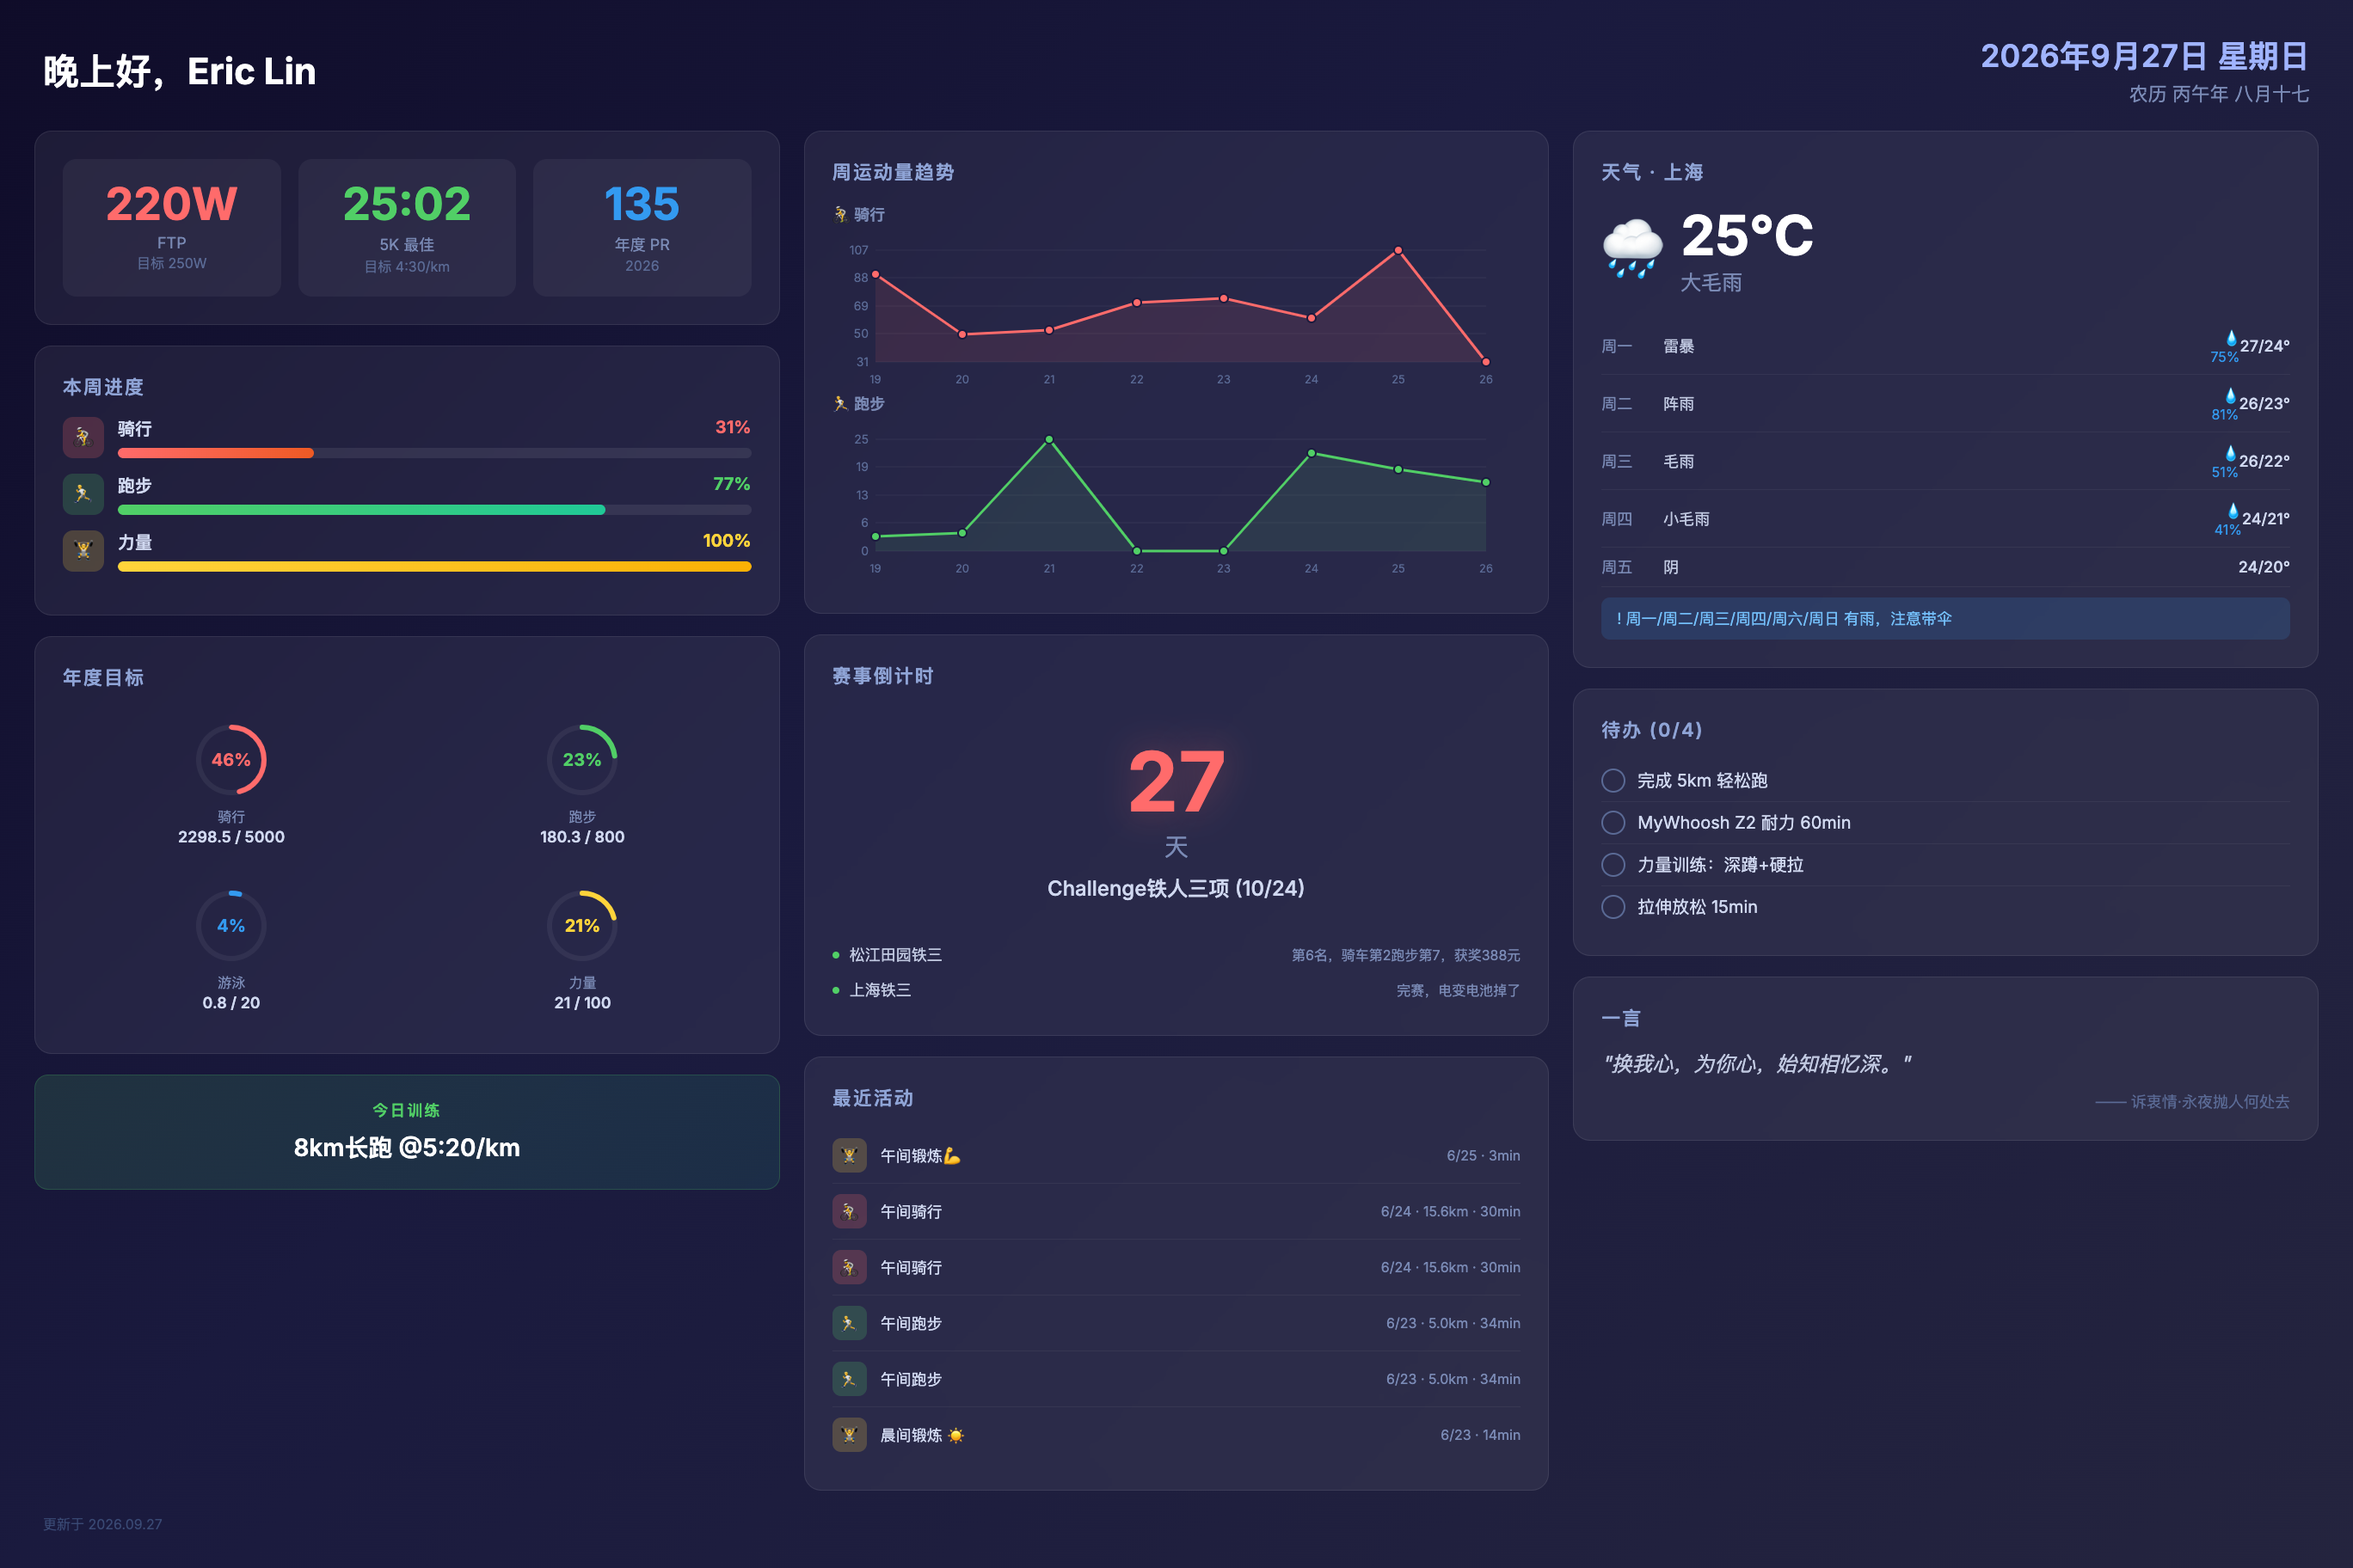
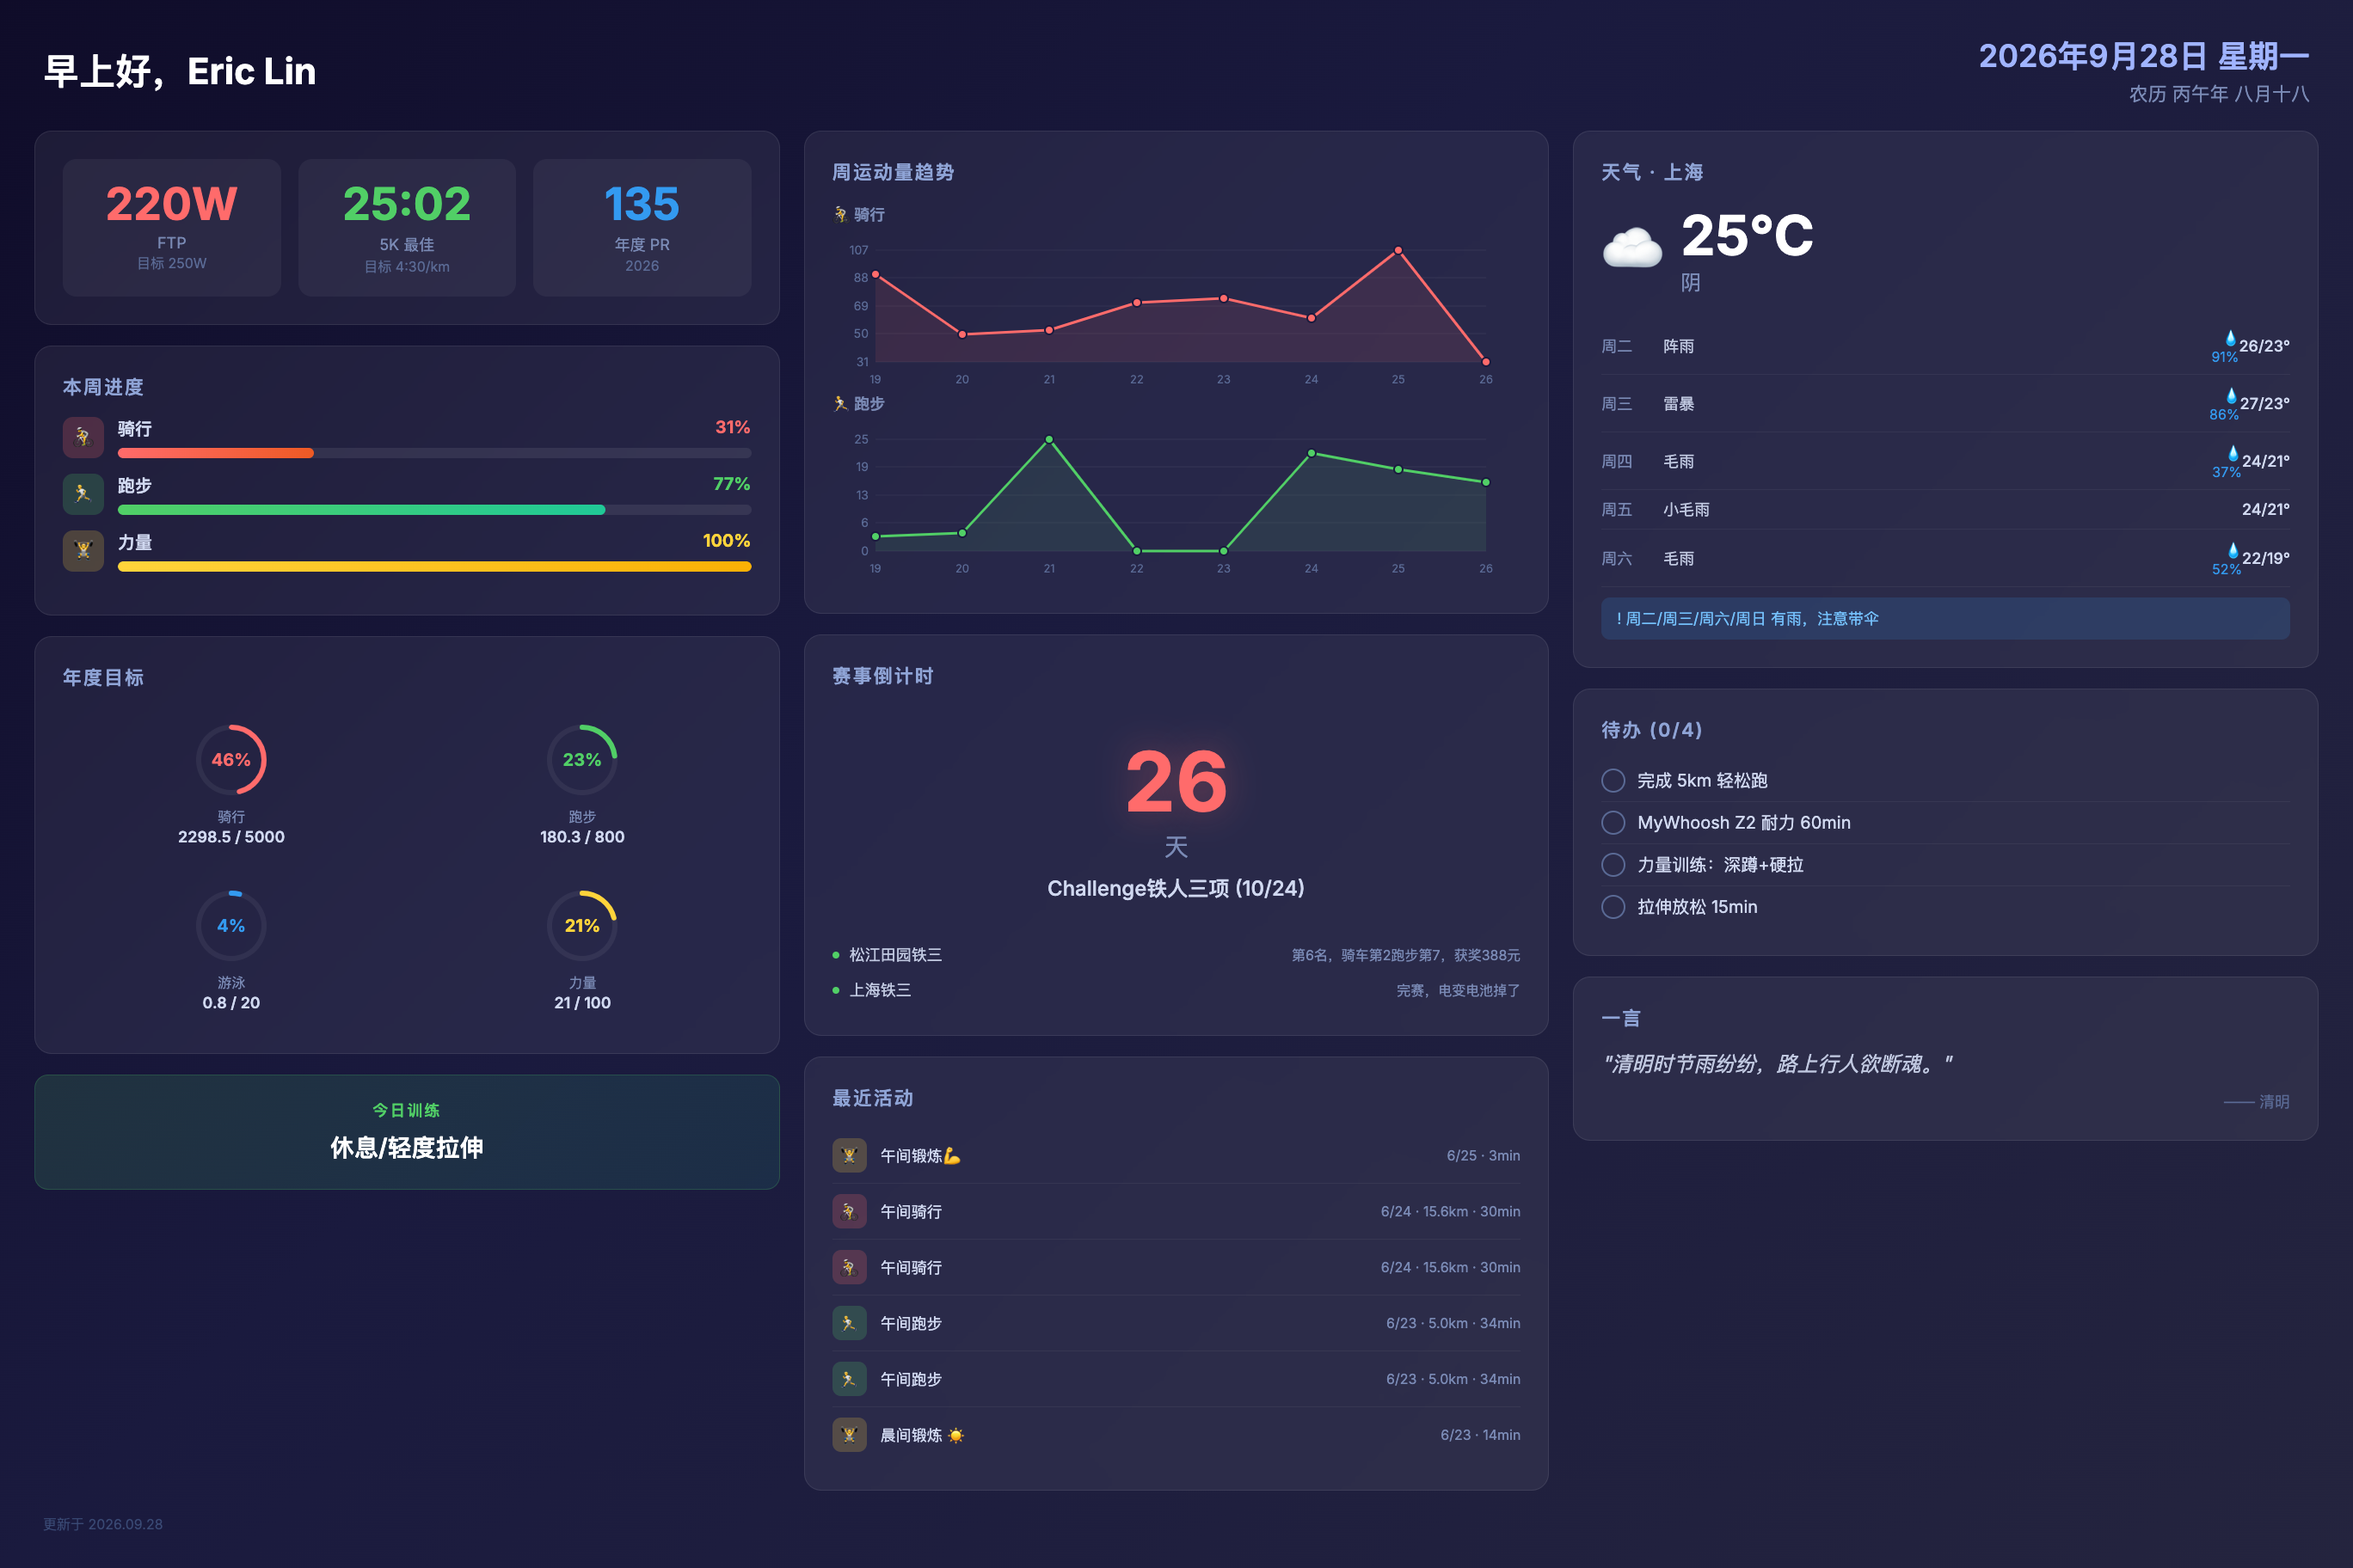
deploy: 2026-09-28-07:00

diff --git a/screensaver.html b/screensaver.html
@@ -490,13 +490,13 @@ html, body {
 <!-- ===== TOP BAR ===== -->
 <div class="top-bar">
   <div>
-    <div class="greeting">晚上好，Eric Lin</div>
+    <div class="greeting">早上好，Eric Lin</div>
     
   </div>
   <div class="date-info">
-    <div class="solar-date">2026年9月27日 星期日</div>
+    <div class="solar-date">2026年9月28日 星期一</div>
     
-    <div class="lunar-date">农历 丙午年 八月十七</div>
+    <div class="lunar-date">农历 丙午年 八月十八</div>
     
   </div>
 </div>
@@ -638,7 +638,7 @@ html, body {
   
   <div class="ai-today-card">
     <div class="ai-today-label">今日训练</div>
-    <div class="ai-today-text">8km长跑 @5:20/km</div>
+    <div class="ai-today-text">休息/轻度拉伸</div>
   </div>
   
 
@@ -732,7 +732,7 @@ html, body {
   <div class="card">
     <div class="card-title">赛事倒计时</div>
     <div class="race-countdown">
-      <div class="countdown-number">27</div>
+      <div class="countdown-number">26</div>
       <div class="countdown-unit">天</div>
       <div class="countdown-name">Challenge铁人三项 (10/24)</div>
     </div>
@@ -808,52 +808,52 @@ html, body {
   <div class="card">
     <div class="card-title">天气 · 上海</div>
     <div class="weather-current">
-      <div class="weather-icon-big">🌧</div>
+      <div class="weather-icon-big">☁</div>
       <div>
         <div class="weather-temp-big">25°C</div>
-        <div class="weather-desc">大毛雨</div>
+        <div class="weather-desc">阴</div>
       </div>
     </div>
     
     
     <div class="forecast-row">
-      <div class="forecast-day">周一</div>
-      <div class="forecast-desc">雷暴</div>
-      <div class="forecast-precip">💧75%</div>
-      <div class="forecast-range">27/24°</div>
-    </div>
-    
-    <div class="forecast-row">
       <div class="forecast-day">周二</div>
       <div class="forecast-desc">阵雨</div>
-      <div class="forecast-precip">💧81%</div>
+      <div class="forecast-precip">💧91%</div>
       <div class="forecast-range">26/23°</div>
     </div>
     
     <div class="forecast-row">
       <div class="forecast-day">周三</div>
-      <div class="forecast-desc">毛雨</div>
-      <div class="forecast-precip">💧51%</div>
-      <div class="forecast-range">26/22°</div>
+      <div class="forecast-desc">雷暴</div>
+      <div class="forecast-precip">💧86%</div>
+      <div class="forecast-range">27/23°</div>
     </div>
     
     <div class="forecast-row">
       <div class="forecast-day">周四</div>
-      <div class="forecast-desc">小毛雨</div>
-      <div class="forecast-precip">💧41%</div>
+      <div class="forecast-desc">毛雨</div>
+      <div class="forecast-precip">💧37%</div>
       <div class="forecast-range">24/21°</div>
     </div>
     
     <div class="forecast-row">
       <div class="forecast-day">周五</div>
-      <div class="forecast-desc">阴</div>
+      <div class="forecast-desc">小毛雨</div>
       <div class="forecast-precip"></div>
-      <div class="forecast-range">24/20°</div>
+      <div class="forecast-range">24/21°</div>
+    </div>
+    
+    <div class="forecast-row">
+      <div class="forecast-day">周六</div>
+      <div class="forecast-desc">毛雨</div>
+      <div class="forecast-precip">💧52%</div>
+      <div class="forecast-range">22/19°</div>
     </div>
     
     
     
-    <div class="rain-alert">! 周一/周二/周三/周四/周六/周日 有雨，注意带伞</div>
+    <div class="rain-alert">! 周二/周三/周六/周日 有雨，注意带伞</div>
     
   </div>
   
@@ -902,9 +902,9 @@ html, body {
   
   <div class="card">
     <div class="card-title">一言</div>
-    <div class="quote-text">"换我心，为你心，始知相忆深。"</div>
+    <div class="quote-text">"清明时节雨纷纷，路上行人欲断魂。"</div>
     
-    <div class="quote-from">—— 诉衷情·永夜抛人何处去</div>
+    <div class="quote-from">—— 清明</div>
     
   </div>
   
@@ -913,7 +913,7 @@ html, body {
 
 <!-- ===== BOTTOM BAR ===== -->
 <div class="bottom-bar">
-  <div class="update-time">更新于 2026.09.27</div>
+  <div class="update-time">更新于 2026.09.28</div>
 </div>
 
 </div>

diff --git a/life.html b/life.html
@@ -89,7 +89,7 @@ html, body {
 <table class="header-table">
   <tr>
     <td class="header-left">生活</td>
-    <td class="header-right">2026.09.27</td>
+    <td class="header-right">2026.09.28</td>
   </tr>
 </table>
 
@@ -137,20 +137,13 @@ html, body {
   <p class="section-title">☀ 天气 · 上海</p>
   <table class="weather-table">
     <tr>
-      <td class="weather-icon">.</td>
+      <td class="weather-icon">~</td>
       <td class="weather-temp">25°C</td>
-      <td class="weather-desc">大毛雨</td>
+      <td class="weather-desc">阴</td>
     </tr>
   </table>
   
   <table class="forecast-table">
-    
-    <tr>
-      <td class="forecast-day">周一</td>
-      <td class="forecast-icon">!</td>
-      <td>雷暴</td>
-      <td class="forecast-range">27/24°C</td>
-    </tr>
     
     <tr>
       <td class="forecast-day">周二</td>
@@ -161,43 +154,50 @@ html, body {
     
     <tr>
       <td class="forecast-day">周三</td>
-      <td class="forecast-icon">.</td>
-      <td>毛雨</td>
-      <td class="forecast-range">26/22°C</td>
+      <td class="forecast-icon">!</td>
+      <td>雷暴</td>
+      <td class="forecast-range">27/23°C</td>
     </tr>
     
     <tr>
       <td class="forecast-day">周四</td>
+      <td class="forecast-icon">.</td>
+      <td>毛雨</td>
+      <td class="forecast-range">24/21°C</td>
+    </tr>
+    
+    <tr>
+      <td class="forecast-day">周五</td>
       <td class="forecast-icon">.</td>
       <td>小毛雨</td>
       <td class="forecast-range">24/21°C</td>
     </tr>
     
     <tr>
-      <td class="forecast-day">周五</td>
-      <td class="forecast-icon">~</td>
-      <td>阴</td>
-      <td class="forecast-range">24/20°C</td>
-    </tr>
-    
-    <tr>
       <td class="forecast-day">周六</td>
       <td class="forecast-icon">.</td>
-      <td>大毛雨</td>
-      <td class="forecast-range">24/20°C</td>
+      <td>毛雨</td>
+      <td class="forecast-range">22/19°C</td>
     </tr>
     
     <tr>
       <td class="forecast-day">周日</td>
       <td class="forecast-icon">.</td>
-      <td>小阵雨</td>
-      <td class="forecast-range">22/20°C</td>
+      <td>小毛雨</td>
+      <td class="forecast-range">24/20°C</td>
+    </tr>
+    
+    <tr>
+      <td class="forecast-day">周一</td>
+      <td class="forecast-icon">~</td>
+      <td>阴</td>
+      <td class="forecast-range">22/16°C</td>
     </tr>
     
   </table>
   
   
-  <div class="rain-alert">! 周一/周二/周三/周四/周六/周日 有雨，注意带伞</div>
+  <div class="rain-alert">! 周二/周三/周六/周日 有雨，注意带伞</div>
   
 </div>
 
@@ -207,10 +207,10 @@ html, body {
   <p class="section-title">📅 今日</p>
   <table class="data-table">
     <tr>
-      <td>2026年9月27日 星期六</td>
+      <td>2026年9月28日 星期日</td>
     </tr>
     <tr>
-      <td>农历丙午年 八月十七</td>
+      <td>农历丙午年 八月十八</td>
     </tr>
   </table>
 </div>
@@ -261,9 +261,9 @@ html, body {
 
 <div class="box">
   <p class="section-title">💬 一言</p>
-  <p class="quote-text">换我心，为你心，始知相忆深。</p>
+  <p class="quote-text">清明时节雨纷纷，路上行人欲断魂。</p>
   
-  <p class="quote-from">—— 诉衷情·永夜抛人何处去</p>
+  <p class="quote-from">—— 清明</p>
   
 </div>
 

diff --git a/index.html b/index.html
@@ -74,7 +74,7 @@ html, body {
 <table class="header-table">
   <tr>
     <td class="header-left">Eric Lin · 运动</td>
-    <td class="header-right">2026.09.27</td>
+    <td class="header-right">2026.09.28</td>
   </tr>
 </table>
 
@@ -225,17 +225,10 @@ html, body {
 <div class="ai-plan">
   <div class="ai-plan-title">AI 训练建议</div>
   
-  <div class="ai-today">今日: 长跑 8km @5:20/km</div>
+  <div class="ai-today">今日: 休息</div>
   
   
   <table class="ai-weekly">
-    
-    <tr>
-      <td class="day">周日</td>
-      
-      <td>长跑 8km @5:20/km</td>
-      
-    </tr>
     
     <tr>
       <td class="day">周一</td>
@@ -279,6 +272,13 @@ html, body {
       
     </tr>
     
+    <tr>
+      <td class="day">周日</td>
+      
+      <td>长跑 8km @5:20/km</td>
+      
+    </tr>
+    
   </table>
   
   
@@ -293,7 +293,7 @@ html, body {
   <p class="section-title">即将到来</p>
   
   <div class="countdown-box">
-    <div class="countdown-days">27</div>
+    <div class="countdown-days">26</div>
     <div class="countdown-label">距 Challenge铁人三项 (10/24)</div>
   </div>
   

diff --git a/work.html b/work.html
@@ -89,7 +89,7 @@ html, body {
 <table class="header-table">
   <tr>
     <td class="header-left">工作</td>
-    <td class="header-right">2026.09.27</td>
+    <td class="header-right">2026.09.28</td>
   </tr>
 </table>
 
